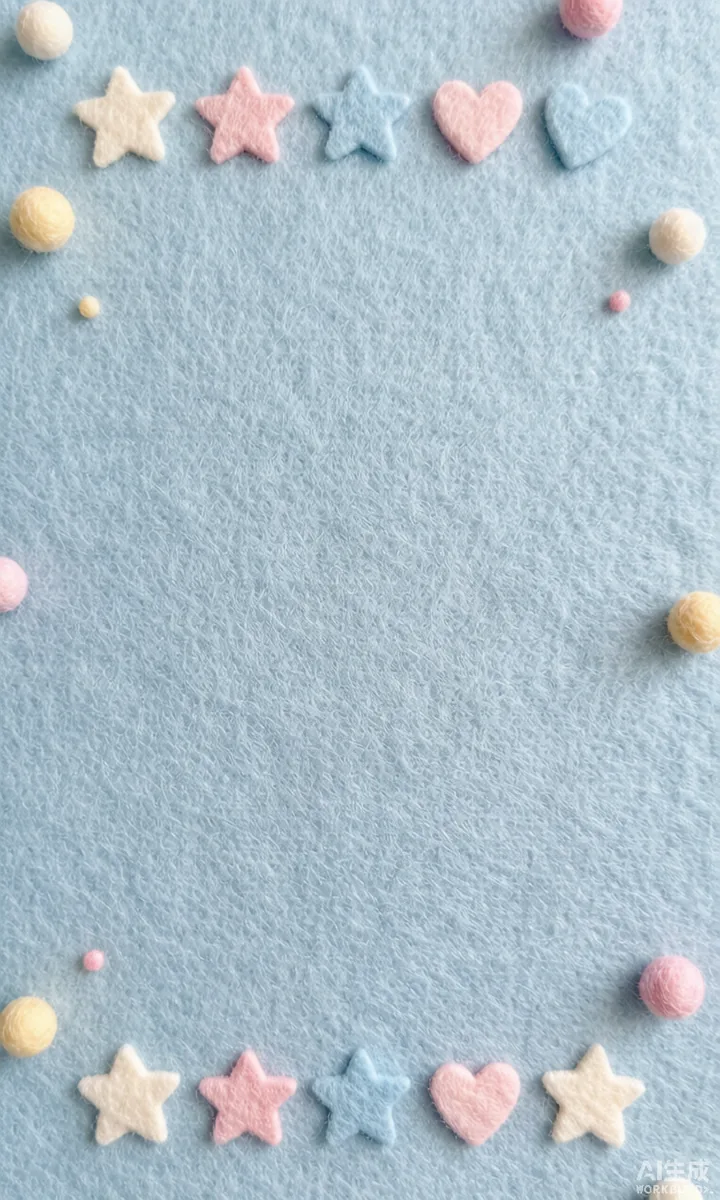
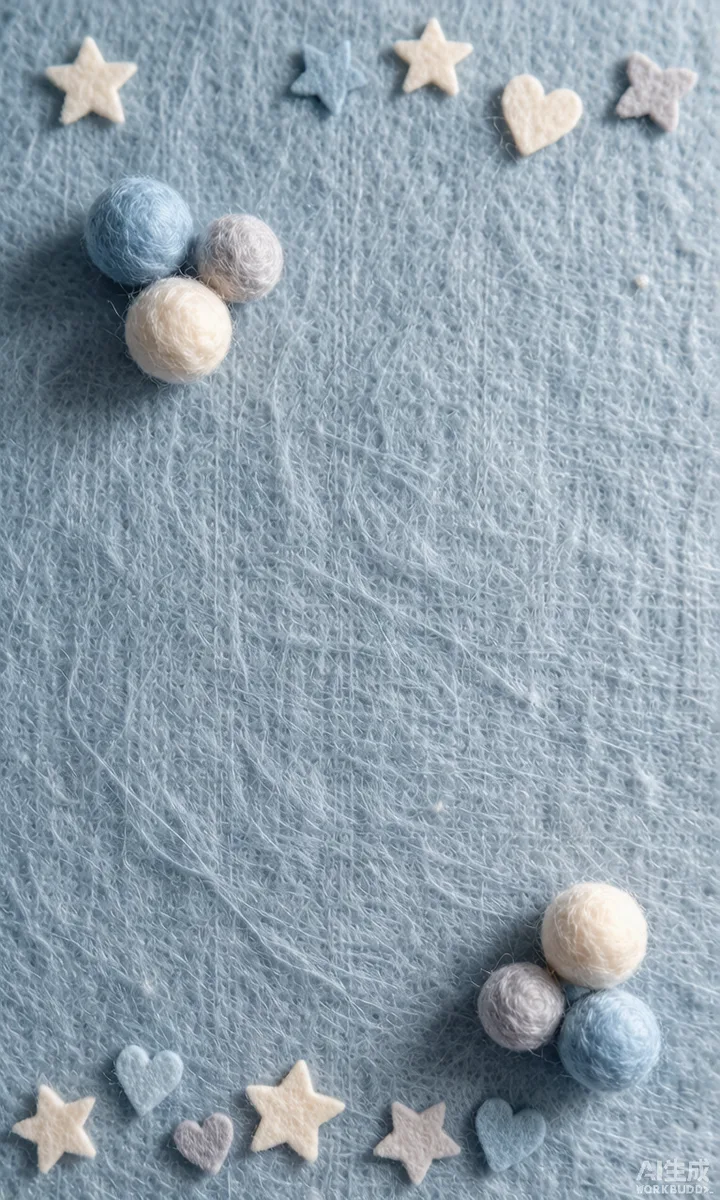
fix(wall): 毛毡主题「雾霾蓝-樱花粉」拆分为独立两花色（雾霾蓝 / 樱花粉）
- wall-themes：felt 三色变体 → 四色（奶油白/鼠尾草绿/雾霾蓝/樱花粉），misty 改为纯净雾霾蓝，新增 sakura(樱花粉)
- 新增背景 assets/backgrounds/felt-sakura.webp（樱花粉毛毡）；felt-misty.webp 重生成去粉调
- 验证：Puppeteer 4 花色切换/背景注入/持久化/导出非空白/console 0 / pageerror 0 ALL_PASS

diff --git a/wall-themes/wall-themes.js b/wall-themes/wall-themes.js
@@ -8,7 +8,7 @@
  *   · 照片 / 贴纸 / 图钉 原有数据结构与交互一律不改，仅 attachmentType 由主题驱动。
  *
  * 三个第一阶段主题：
- *   felt（默认，毛毡照片板，📌 图钉）— 奶油白 / 鼠尾草绿 / 雾霾蓝-樱花粉 三色变体
+ *   felt（默认，毛毡照片板，📌 图钉）— 奶油白 / 鼠尾草绿 / 雾霾蓝 / 樱花粉 四色变体
  *   cork（软木照片墙，📌 纽扣图钉，木质手工感）
  *   fridge（冰箱磁贴墙，🧲 磁铁，家庭生活感）
  */
@@ -24,7 +24,8 @@
             variants: [
                 { id: 'cream', name: '奶油白',     file: 'backgrounds/felt-cream.webp', overlay: 'linear-gradient(180deg, rgba(255,252,245,0.10), rgba(238,222,194,0.22))', accent: '#E2A35B', titleColor: '#6B4A2E' },
                 { id: 'sage',  name: '鼠尾草绿',   file: 'backgrounds/felt-sage.webp',  overlay: 'linear-gradient(180deg, rgba(232,240,225,0.10), rgba(176,192,160,0.26))', accent: '#7FA079', titleColor: '#3F5A3C' },
-                { id: 'misty', name: '雾霾蓝-樱花粉', file: 'backgrounds/felt-misty.webp', overlay: 'linear-gradient(180deg, rgba(224,232,240,0.08), rgba(205,180,200,0.24))', accent: '#8AA0BC', titleColor: '#3F4E63' }
+                { id: 'misty', name: '雾霾蓝',     file: 'backgrounds/felt-misty.webp',  overlay: 'linear-gradient(180deg, rgba(214,226,238,0.10), rgba(150,175,200,0.26))', accent: '#8AA0BC', titleColor: '#3F4E63' },
+                { id: 'sakura', name: '樱花粉',    file: 'backgrounds/felt-sakura.webp', overlay: 'linear-gradient(180deg, rgba(248,228,236,0.12), rgba(224,170,196,0.26))', accent: '#D98AAE', titleColor: '#7A4A5C' }
             ]
         },
         {
